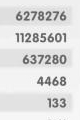
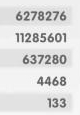
fix bug where tesseract captures empty lines

diff --git a/parser/parser_test.go b/parser/parser_test.go
@@ -51,26 +51,61 @@ func TestHeroNameFromBytes(t *testing.T) {
 }
 
 func TestMainStatsFromBytes(t *testing.T) {
+	tests := []struct {
+		name     string
+		fileName string
+		want     map[string]interface{}
+	}{
+		{
+			name:     "toko main stats",
+			fileName: "./data/toko_stats.jpg",
+			want: map[string]interface{}{
+				"Power": 6278276,
+				"HP":    11285601,
+				"ATK":   637280,
+				"Armor": 4468,
+				"Speed": 133,
+			},
+		},
+		{
+			name:     "kinley main stats",
+			fileName: "./data/kinley_stats.jpeg",
+			want: map[string]interface{}{
+				"Power": 5912727,
+				"HP":    13621736,
+				"ATK":   459930,
+				"Armor": 4834,
+				"Speed": 127,
+			},
+		},
+		{
+			name:     "indira main stats",
+			fileName: "./data/indira_stats.jpg",
+			want: map[string]interface{}{
+				"Power": 6360034,
+				"HP":    10862119,
+				"ATK":   675963,
+				"Armor": 4610,
+				"Speed": 127,
+			},
+		},
+	}
+
 	client := gosseract.NewClient()
 	client.SetTessdataPrefix("../traineddata/")
 	client.SetLanguage("digitsall_layer")
 	client.SetWhitelist("0123456789")
 	defer client.Close()
 
-	want := map[string]interface{}{
-		"Power": 6278276,
-		"HP":    11285601,
-		"ATK":   637280,
-		"Armor": 4468,
-		"Speed": 133,
-	}
-	bytes := readFileToBytes("./data/toko_stats.jpg")
-	imgObj, _ := imageutils.BytesToImageObject(bytes)
-	croppedImgObj, _ := imageutils.CropToMainStats(imgObj)
-	croppedImgBytes, _ := imageutils.ImageObjectToBytes(croppedImgObj)
-	got, err := MainStatsFromBytes(client, croppedImgBytes)
-	if fmt.Sprint(got) != fmt.Sprint(want) || err != nil {
-		t.Fatalf(`MainStatsFromBytes() = %v, %v, want match for %v, nil`, got, err, want)
+	for _, test := range tests {
+		bytes := readFileToBytes(test.fileName)
+		imgObj, _ := imageutils.BytesToImageObject(bytes)
+		croppedImgObj, _ := imageutils.CropToMainStats(imgObj)
+		croppedImgBytes, _ := imageutils.ImageObjectToBytes(croppedImgObj)
+		got, err := MainStatsFromBytes(client, croppedImgBytes)
+		if fmt.Sprint(got) != fmt.Sprint(test.want) || err != nil {
+			t.Fatalf(`%s: MainStatsFromBytes() = %v, %v, want match for %v, nil`, test.name, got, err, test.want)
+		}
 	}
 }
 

diff --git a/imageutils/imageutils.go b/imageutils/imageutils.go
@@ -22,7 +22,7 @@ var (
 	mainStatsX1Ratio float32 = 250 / 388.0
 	mainStatsY1Ratio float32 = 180 / 862.0
 	mainStatsX2Ratio float32 = 330 / 388.0
-	mainStatsY2Ratio float32 = 300 / 862.0
+	mainStatsY2Ratio float32 = 295 / 862.0
 	pctStatsX1Ratio  float32 = 250 / 388.0
 	pctStatsY1Ratio  float32 = 290 / 862.0
 	pctStatsX2Ratio  float32 = 308 / 388.0
@@ -126,7 +126,6 @@ func CropImage(imgObj image.Image, crop image.Rectangle) (image.Image, error) {
 func CropToHeroName(imgObj image.Image) (image.Image, error) {
 	w := float32(imgObj.Bounds().Dx())
 	h := float32(imgObj.Bounds().Dy())
-	// cropHeroName := image.Rect(0, 40, 150, 60)
 	cropHeroName := image.Rect(0, int(heroNameY1Ratio*h), int(heroNameX2Ratio*w), int(heroNameY2Ratio*h))
 	return CropImage(imgObj, cropHeroName)
 }
@@ -135,7 +134,6 @@ func CropToHeroName(imgObj image.Image) (image.Image, error) {
 func CropToMainStats(imgObj image.Image) (image.Image, error) {
 	w := float32(imgObj.Bounds().Dx())
 	h := float32(imgObj.Bounds().Dy())
-	// cropMainStats := image.Rect(250, 180, 330, 300)
 	cropMainStats := image.Rect(int(mainStatsX1Ratio*w), int(mainStatsY1Ratio*h), int(mainStatsX2Ratio*w), int(mainStatsY2Ratio*h))
 	return CropImage(imgObj, cropMainStats)
 }
@@ -144,7 +142,6 @@ func CropToMainStats(imgObj image.Image) (image.Image, error) {
 func CropToPercentageStats(imgObj image.Image) (image.Image, error) {
 	w := float32(imgObj.Bounds().Dx())
 	h := float32(imgObj.Bounds().Dy())
-	// cropPercentageStats := image.Rect(250, 290, 308, 600)
 	cropPercentageStats := image.Rect(int(pctStatsX1Ratio*w), int(pctStatsY1Ratio*h), int(pctStatsX2Ratio*w), int(pctStatsY2Ratio*h))
 	return CropImage(imgObj, cropPercentageStats)
 }

diff --git a/parser/parser.go b/parser/parser.go
@@ -29,9 +29,10 @@ func MainStatsFromBytes(client *gosseract.Client, imgAsBytes []byte) (map[string
 	if err != nil {
 		return nil, err
 	}
+	stats = strings.Replace(stats, "\n\n", "\n", -1) // remove empty line.
 	statsSplit := strings.Split(stats, "\n")
 	if len(statsSplit) != 5 {
-		return nil, fmt.Errorf("Expected 5 stats to be parsed. Got %d", len(statsSplit))
+		return nil, fmt.Errorf("Expected 5 stats to be parsed. Got %d. %v", len(statsSplit), statsSplit)
 	}
 	statsMap := map[string]interface{}{}
 	for idx, statName := range mainStatsOrder {
@@ -48,6 +49,7 @@ func PercentageStatsFromBytes(client *gosseract.Client, imgAsBytes []byte) (map[
 	if err != nil {
 		return nil, err
 	}
+	stats = strings.Replace(stats, "\n\n", "\n", -1) // remove empty line.
 	statsSplit := strings.Split(stats, "\n")
 	if len(statsSplit) != 14 {
 		fmt.Println(statsSplit)

diff --git a/playground/parser_playground.go b/playground/parser_playground.go
@@ -14,7 +14,8 @@ import (
 
 func readFileToBytes() []byte {
 	// Read the entire file into a byte slice
-	imgPath := "./playground/data/kinley_stats.jpeg"
+	// imgPath := "./playground/data/toko_stats.jpg"
+	imgPath := "./playground/data/indira_stats.jpg"
 	fileObj, err := os.Open(imgPath)
 	if err != nil {
 		fmt.Println("os.Open ", err)
@@ -57,7 +58,7 @@ func main() {
 	}
 	// Save cropped image.
 	// out, _ := os.Create("./playground/data/toko_main_stats_cropped.jpg")
-	out, _ := os.Create("./playground/data/kinley_main_stats_cropped.jpg")
+	out, _ := os.Create("./playground/data/indira_main_stats_cropped.jpg")
 	defer out.Close()
 
 	var opts jpeg.Options
